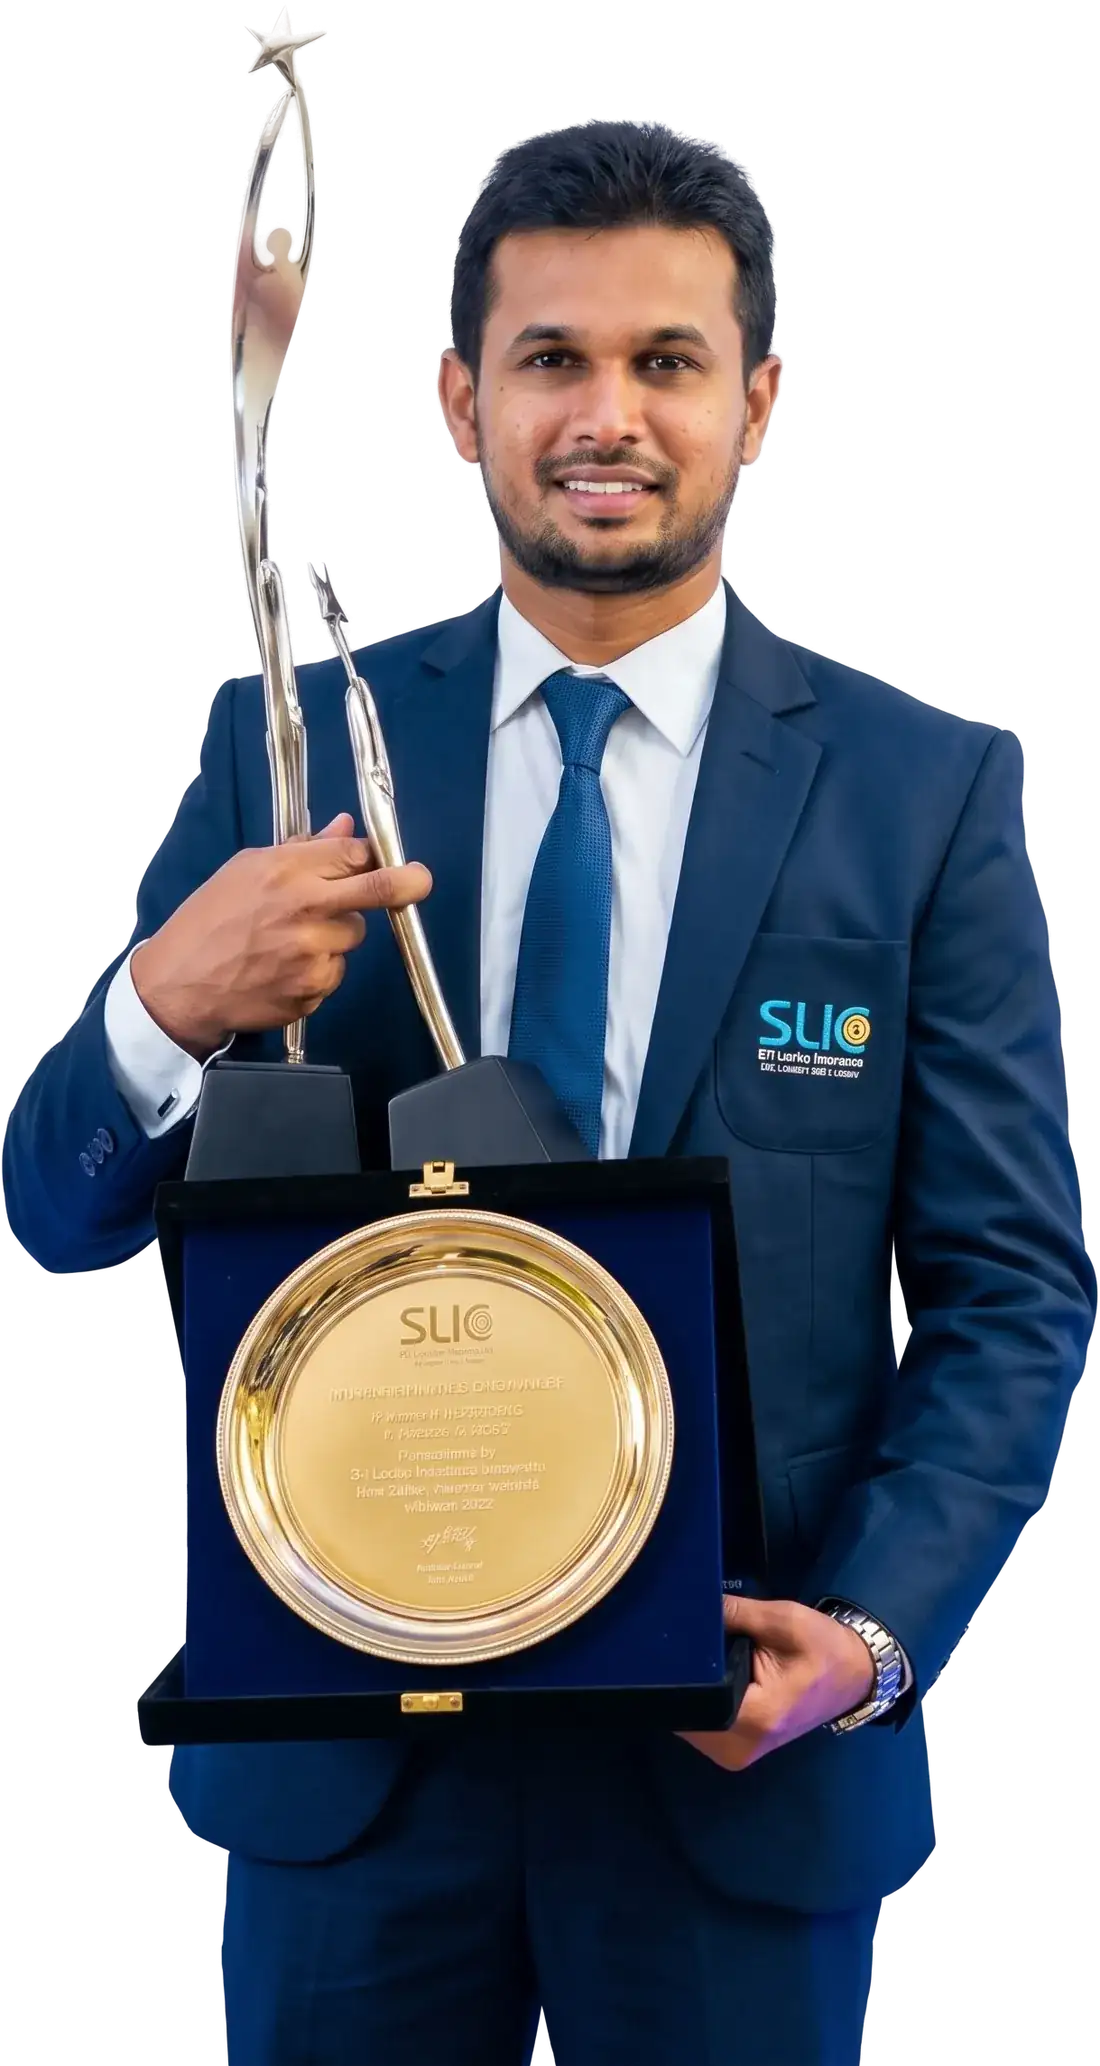
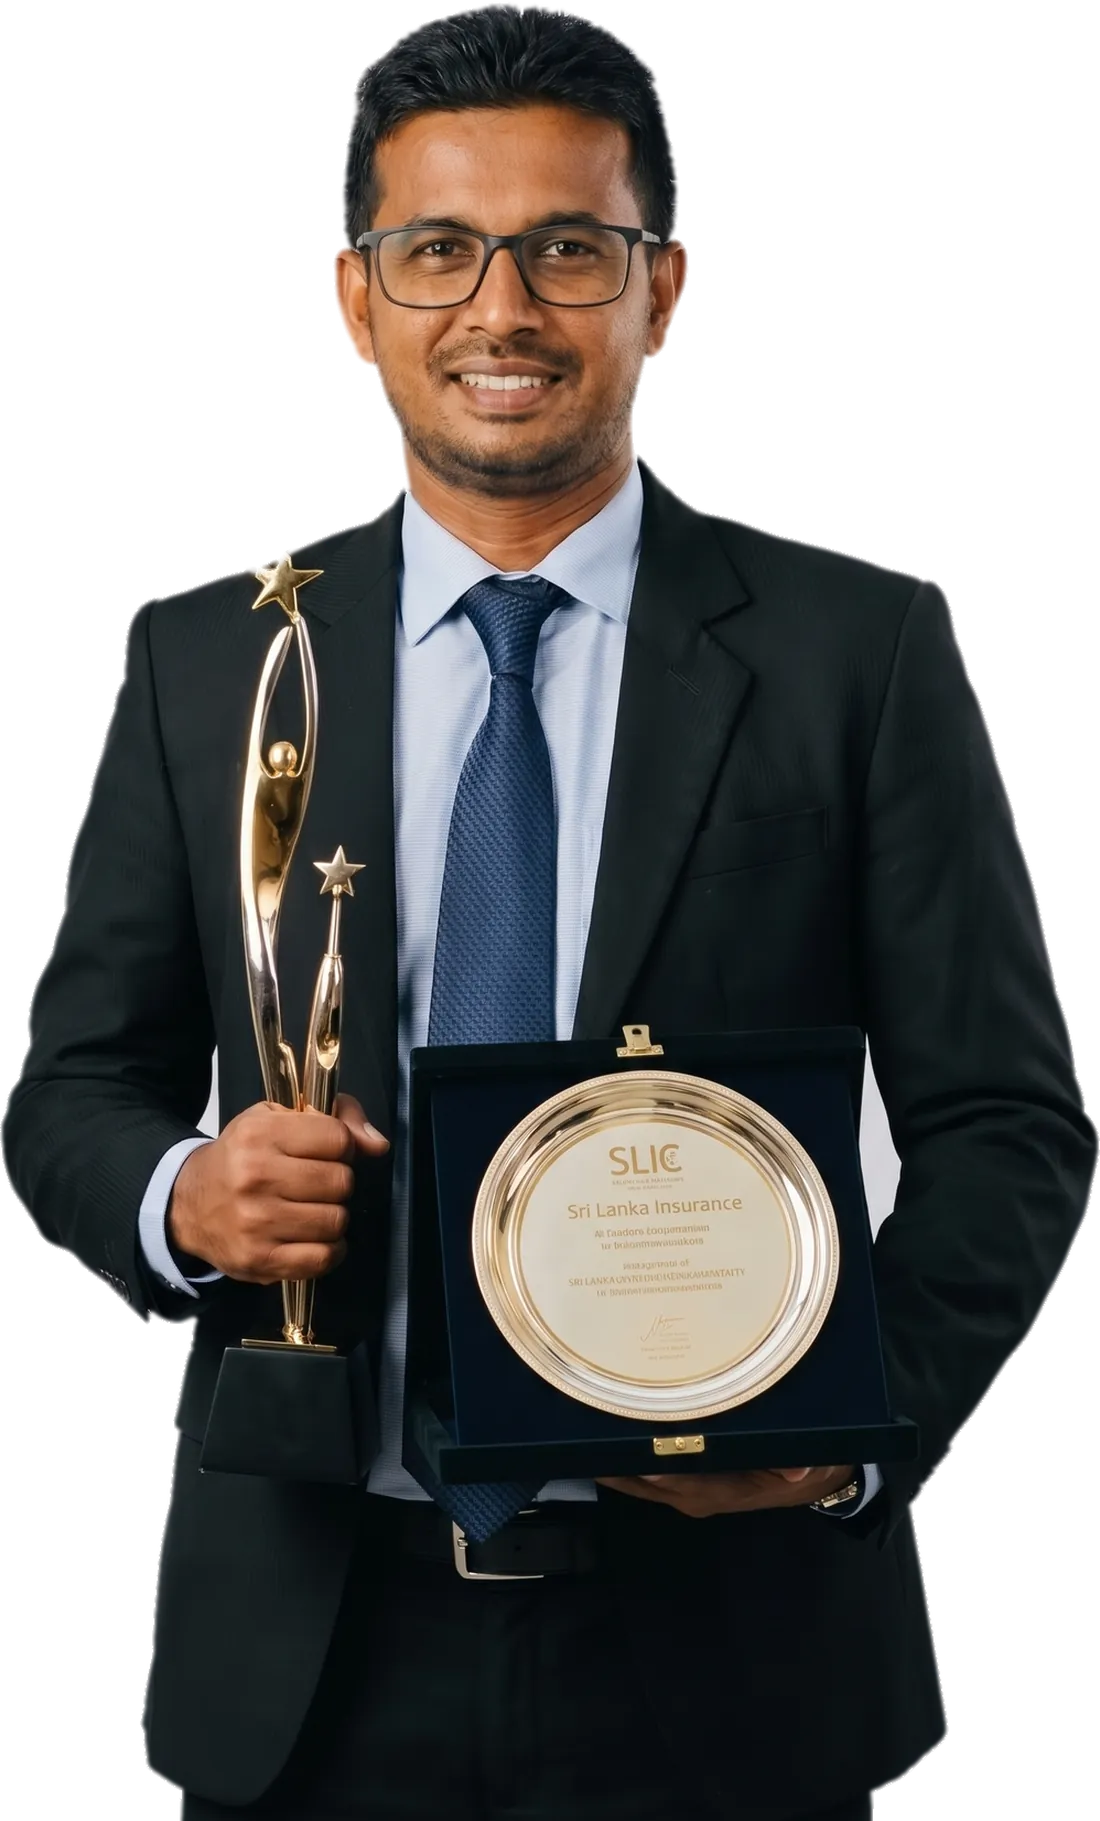
Second phone number, Court of the Table years, and the gallery
Court of the Table read "including 2024, 2025, 2026" while the figure
beside it said four. The bar chart already had 2020 — only the prose
omitted it. Now "4 times — 2020, and again in 2024, 2025 and 2026",
which matches the chart and keeps the point about the recent run.

Added phone_secondary, +94 76 906 1000, shown on the contact page and
nowhere else. Two numbers in the header would only leave people
deciding which one to ring; one number is the number everywhere, with
the second offered where somebody has already chosen to make contact.

Seven photographs into the gallery, chosen from the set he sent and
ordered newest first: Star Awards 2024, 2023, 2021 and 2018, Life
Congress 2025, an awards night, and his graduation. Left out the
conference selfies and the hotel-lobby shots — MDRT Orlando, Boston,
Vancouver — which are real but read as holiday snaps next to the rest.

The upload endpoint does not record width and height, so every row
landed with NULL dimensions and no aspect ratio for the browser to
reserve. Backfilled, otherwise the whole grid reflows as each photo
arrives.

Claude-Session: https://claude.ai/code/session_015bbtoL5v43H3GBfiqko2bK

diff --git a/src/lib/settings.ts b/src/lib/settings.ts
@@ -21,6 +21,10 @@ export interface SiteSettings {
   recognition: string;
   /** null while PENDING — do not render */
   phone: string | null;
+  /** A second line he answers. Contact page only — one number is the
+      number everywhere else, or people do not know which to ring. */
+  phoneSecondary: string | null;
+  phoneSecondaryHref: string | null;
   whatsapp: string | null;
   email: string | null;
   serviceArea: string;
@@ -38,11 +42,13 @@ const FALLBACK: SiteSettings = {
   cotYears: site.credentials.cotYears,
   recognition: site.credentials.recognition,
   phone: null,
+  phoneSecondary: null,
   whatsapp: null,
   email: null,
   serviceArea: site.serviceArea,
   bookingsPaused: false,
   phoneHref: null,
+  phoneSecondaryHref: null,
   whatsappHref: null,
   emailHref: null,
 };
@@ -73,6 +79,7 @@ export async function getSiteSettings(db: any): Promise<SiteSettings> {
   const num = (key: string, fallback: number) => Number(map.get(key)) || fallback;
 
   const phone = val("phone");
+  const phone2 = val("phone_secondary");
   const whatsapp = val("whatsapp");
   const email = val("email");
 
@@ -97,11 +104,13 @@ export async function getSiteSettings(db: any): Promise<SiteSettings> {
     mdrtStatus: val("mdrt_status") ?? FALLBACK.mdrtStatus,
     recognition: val("recognition") ?? FALLBACK.recognition,
     phone,
+    phoneSecondary: phone2,
     whatsapp,
     email,
     serviceArea: val("service_area") ?? FALLBACK.serviceArea,
     bookingsPaused: map.get("bookings_paused") === "1",
     phoneHref: phone ? `tel:${phone.replace(/\s/g, "")}` : null,
+    phoneSecondaryHref: phone2 ? `tel:${phone2.replace(/\s/g, "")}` : null,
     whatsappHref: whatsappHref(whatsapp),
     emailHref: email ? `mailto:${email}` : null,
   };

diff --git a/src/styles/global.css b/src/styles/global.css
@@ -500,3 +500,24 @@
 @utility pl-gutter {
   padding-left: max(1.25rem, calc((100vw - var(--container-default)) / 2 + 1.25rem));
 }
+
+/* ------------------------------------------------------------------
+   The hero portrait.
+
+   A cut-out pasted on a gradient reads as a sticker — the eye expects
+   a figure standing in a space to darken the air immediately around
+   it. Two stacked drop-shadows supply that: a tight one that hugs the
+   silhouette so the edge stops looking die-cut, and a wider, lower one
+   that gives him some ground to stand on.
+
+   drop-shadow rather than box-shadow deliberately: it follows the
+   alpha channel, so it traces his actual outline — hair, trophy tip
+   and all — instead of a rectangle.
+   ------------------------------------------------------------------ */
+.hero-portrait {
+  /* Softer and tighter than the first attempt. That one was read as a
+     dark box because the matte still had a faint haze across the whole
+     frame for the shadow to trace — with the matte clean, a light touch
+     is enough and a heavy one just muddies the gradient. */
+  filter: drop-shadow(0 10px 26px rgba(2, 8, 20, 0.38));
+}

diff --git a/src/pages/api/admin/settings.ts b/src/pages/api/admin/settings.ts
@@ -10,7 +10,7 @@ export const prerender = false;
 // below, and remain only as a manual override if a count ever needs
 // correcting by hand.
 const PROFILE_KEYS = [
-  "phone", "whatsapp", "email", "service_area",
+  "phone", "phone_secondary", "whatsapp", "email", "service_area",
   "experience_since", "mdrt_since", "cot_years",
   "years_experience", "mdrt_years",
 ];

diff --git a/src/lib/site.ts b/src/lib/site.ts
@@ -58,7 +58,7 @@ export const site = {
      * membership count on its own.
      */
     cotYears: 4,
-    cotRecent: "2024, 2025, 2026",
+    cotRecent: "2020, and again in 2024, 2025 and 2026",
     recognition: "Top Performer in Life & General Insurance, Regional",
   },
 
